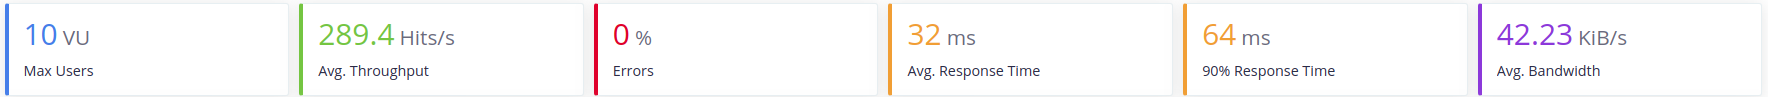
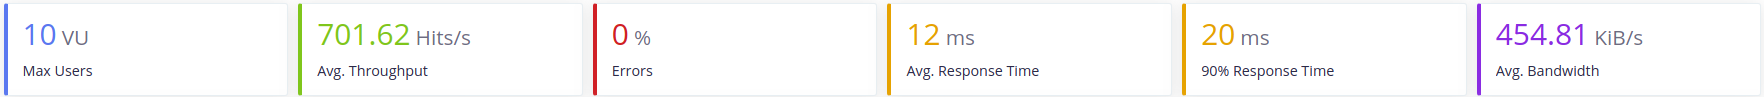
Mejorada la documentación Fixes #63 Fixes #65

diff --git a/README.md b/README.md
@@ -143,9 +143,9 @@ El despliegue de las imágenes y, por tanto, pruebas de carga será realizado en
 ![Test](./Documentacion/pic/au20.png)
 ![Test](./Documentacion/pic/au30.png)
  * Resultados
-   * Peticiones por segundo media 1459 Hits/s
-   * Ancho de banda medio 195 KiB/s
-   * Tiempo de respuesta medio 13 ms
+   * Peticiones por segundo media 1493 Hits/s
+   * Ancho de banda medio 229 KiB/s
+   * Tiempo de respuesta medio 12 ms
    * Error medio 0%
 * **Reactor Netty**
  * Mesas
@@ -170,7 +170,8 @@ El despliegue de las imágenes y, por tanto, pruebas de carga será realizado en
    * Tiempo de respuesta medio 13 ms
    * Error medio 0%
  
-* **Discusión**
+### Discusión
+
  Como podemos ver al usar la base de datos, los servidores, son hasta 6 veces más lentos de media que en las versiones previas.
  
 El servicio camarero es más rápido que los demás servicios debido a que este no necesita mandar peticiones a ningún otro servicio, es totalmente independiente. Por lo que es una buena muestra de la velocidad que tendría un servicio por sí solo en los diferentes servidores.
@@ -189,9 +190,9 @@ Finalmente atendiendo a los resultados obtenidos:
   * Tiempo de respuesta medio 13 ms
   * Error medio 0%
 * Undertow
-  * Peticiones por segundo media 1459 Hits/s
-  * Ancho de banda medio 195 KiB/s
-  * Tiempo de respuesta medio 13 ms
+  * Peticiones por segundo media 1493 Hits/s
+  * Ancho de banda medio 229 KiB/s
+  * Tiempo de respuesta medio 12 ms
   * Error medio 0%
 * Reactor Netty
   * Peticiones por segundo media 1428 Hits/s
@@ -199,21 +200,41 @@ Finalmente atendiendo a los resultados obtenidos:
   * Tiempo de respuesta medio 13 ms
   * Error medio 0%
  
-Podemos ver como. el tiempo de respuesta y la tasa de error que nos proporcionan todos los servidores es la misma.(Los decimales han sido omitidos). Por lo que para la elección del servidor se ha atendido a las peticiones por segundo aceptadas y a su rendimiento al hacer los test de carga de todo el sistema al conjunto. Teniendo esto en cuenta los principales competidores son Reactor Netty y Undertow. Sin embargo Undertow ha demostrado una mejor competencia a la hora del test de carga total, por lo que se ha elegido este finalmente.
+Podemos ver como. el tiempo de respuesta y la tasa de error que nos proporcionan todos los servidores es la misma.(Los decimales han sido omitidos). Por lo que para la elección del servidor se ha atendido a las peticiones por segundo aceptadas y a su rendimiento al hacer los test de carga de todo el sistema al conjunto. Teniendo esto en cuenta los principales competidores son Reactor Netty y Undertow. Sin embargo **Undertow** ha demostrado una mejor competencia a la hora del test de carga total, por lo que se ha elegido este finalmente.
  
 Java, al ser un lenguaje compilado, proporciona una mayor velocidad que los lenguajes interpretados. Además los servidores embebidos que proporciona Spring Boot están configurados por defecto para sacar un buen partido del servidor. Por ejemplo en nuestra elección final, Undertow, está configurado para que use todos los procesadores que estén disponibles y use 8 *workers threads* por cada procesador. Además usará toda la memoria que esté disponible para la Java Virtual Machine.
  
 Finalmente en cuanto a la base de datos, Mongo, como hemos comentado anteriormente, se desplegó 3 veces, para que haya una base de datos para cada servicio. Cosa que, consecuentemente, aceleró la respuesta de peticiones del sistema.
- 
+
+### **Test Finales**
+ Para finalizar el testeo de los servicios. Se han realizado unas ultimas pruebas de estos sobre el servidor escogido, **Undertow**. En ellas se ha limitado el numero de peticiones post y delete que se le hacian a los servicios. Esto imita mejor un entorno de ejecución estandar donde las consultas sobre datos son mucho mas frecuentes que la inserción o borrado de estos. Los resultados obtenidos son los siguientes:
+
+![Test](./Documentacion/pic/FinalResult10.png)
+![Test](./Documentacion/pic/FinalResult20.png)
+![Test](./Documentacion/pic/FInalResult30.png)
+
+* Peticiones por segundo media 1020 Hits/s
+* Ancho de banda medio 3 MiB/s
+* Tiempo de respuesta medio 18 ms
+* Error medio 0%
+
+Con esto podemos concluir que el servidor efectivamente cumple los requisitos mínimos que se esperaban de el.
+
 ---
  
-## 9. Base de Datos
+## 9. Base de Datos/Inyeccion de Dependencias
  
 Como bases de datos para los microservicios se ha usado **MongoDB**.
  
-Para la inyección de dependencias se ha usado una interfaz que extiende  **Spring Data Mongo Repository**. Esto proporciona todas los métodos CRUD para trabajar con nuestro modelo *plato*. Además "auto implementa" los métodos que declares en la interfaz en dependencia de su nombre y el objeto que devuelvan. Para realizar esto se parsea el nombre del método que declaremos buscando el nombre de las variables de nuestro modelo y de un conjunto de reglas que forman las queries.
+Para la **inyección de dependencias** se ha usado una interfaz que extiende  **Spring Data Mongo Repository**. Esto proporciona todas los métodos CRUD para trabajar con nuestro modelo *plato*. Además "auto implementa" los métodos que declares en la interfaz en dependencia de su nombre y el objeto que devuelvan. Para realizar esto se parsea el nombre del método que declaremos buscando el nombre de las variables de nuestro modelo y de un conjunto de reglas que forman las queries.
+
+El **acceso a la base de datos** se hace desde **Spring Data Mongo Repository**. Esta clase, como se ha explicado antes, tiene implementado todos los metodos CRUD de acceso a la base de datos. Ademas facilita la implementación de nuevos metodos de manera que el usuario no tenga que hacer las consultas a manos en el código.
  
-Para trabajar con el repositorio solo hace falta realizar la inyección de dependencias en la clase que lo necesite. Esto se lleva a cabo con la anotación **@Autowired** que instanciará el repositorio al arrancar el servicio. Para realizar la comunicación con la base de datos tenemos que llamar a los métodos que hayamos declarado en el repositorio o a los que ya vienen implementados por defecto.
+Para trabajar con el repositorio solo hace falta realizar la **inyección de dependencias** en la clase que lo necesite. Esto se lleva a cabo con la anotación **@Autowired** que realizara automaticamente el wire entre el bean de nuestro servicio y el bean del repositorio.
+
+Hacer **Wire** es el acto de combinar y comunicar bean dentro del contenedor propio que proporciona **Spring**. Los **Beans** son objetos que son instanciados, montados y gestionados por el **contenedor IoC de Spring**. 
+
+Finalmente podemos hacer uso de esta tecnologia llamando a los métodos que hayamos declarado en el repositorio o a los que ya vienen implementados por defecto.
  
 Para más información:
  
